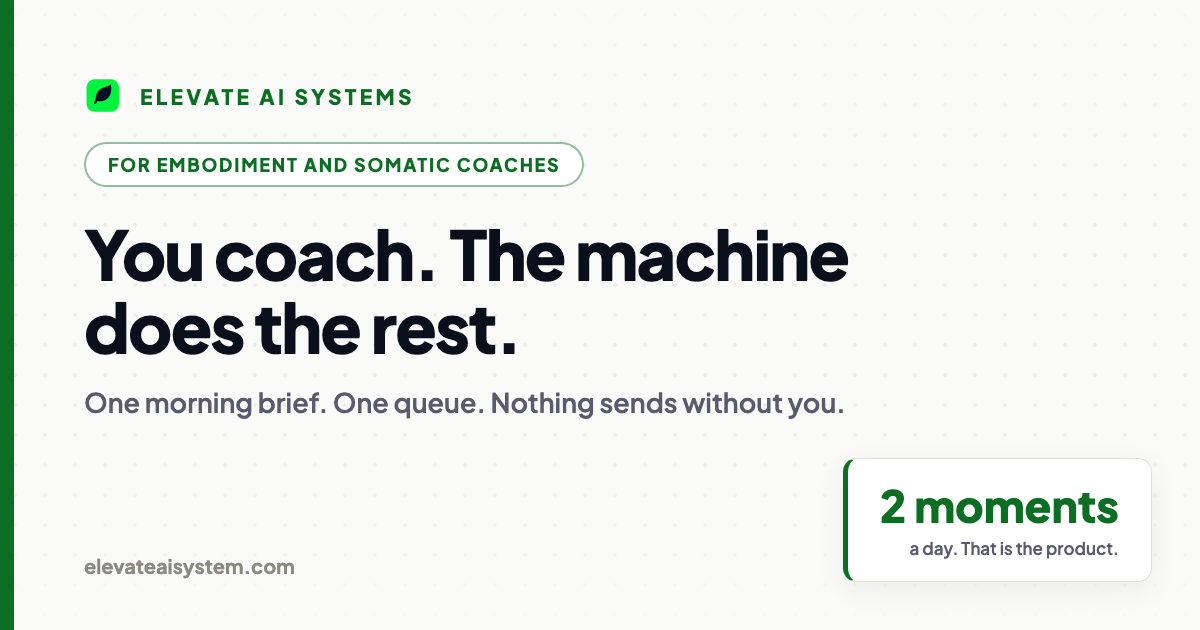
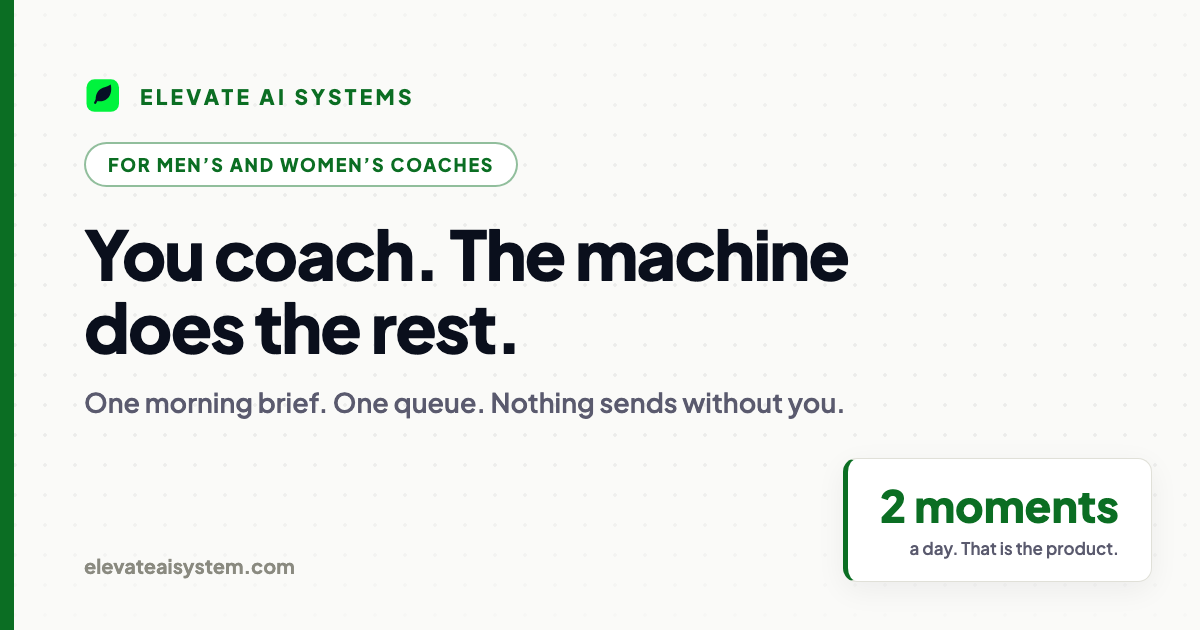
The coaches page stops chasing and names its real audience
"Chases" carried collection-agency energy, wrong for this room, so
it left the whole page, not just the rotator: the machine now
operates, administers, closes; money handles itself; waivers are
followed up on; the metas match. The energy is care with follow-
through, not pursuit.

Audience corrected to Sunny's actual room: men's and women's
coaches, whether transformation, embodiment, somatic, or any coach
helping people change. Badge, fit line, and the og card pill all
re-aimed. The embodiment-first block stays, because that is the
approach, not the audience.

Changed region(s): [[0.1233, 0.2111, 0.4933, 0.3016]]

diff --git a/coaches.html b/coaches.html
@@ -4,12 +4,12 @@
 <meta charset="UTF-8">
 <meta name="viewport" content="width=device-width, initial-scale=1.0">
 <title>AI Systems for Coaches | Elevate AI Systems</title>
-<meta name="description" content="You coach. The machine does the rest. We map the practice, build the ops that chase deposits, waivers and gone-quiet leads, and get you found on Google and in AI answers. You get one morning brief and one queue.">
+<meta name="description" content="You coach. The machine does the rest. We map the practice, build the ops that follow up on deposits, waivers and gone-quiet leads, and get you found on Google and in AI answers. You get one morning brief and one queue.">
 <meta name="robots" content="index, follow">
 <link rel="canonical" href="https://elevateaisystem.com/coaches">
 <meta property="og:type" content="website">
 <meta property="og:title" content="AI Systems for Coaches | Elevate AI Systems">
-<meta property="og:description" content="You coach. The machine does the rest. One morning brief, one queue, and an ops build that chases the money so you do not become a part-time funnel tech.">
+<meta property="og:description" content="You coach. The machine does the rest. One morning brief, one queue, and an ops build that follows up on the money so you do not become a part-time funnel tech.">
 <meta property="og:url" content="https://elevateaisystem.com/coaches">
 <meta property="og:site_name" content="Elevate AI Systems">
 <meta property="og:image" content="https://elevateaisystem.com/coaches-og.png">
@@ -40,7 +40,7 @@
 .who.who-big{max-width:820px;align-items:flex-start;gap:1.8rem;padding:1.8rem}
 .who.who-big img{width:230px;height:280px;border-radius:14px;object-fit:cover;object-position:50% 22%}
 @media(max-width:560px){.who.who-big img{width:170px;height:200px}}
-/* The machine's verb rotates: chases, administers, operates, closes. */
+/* The machine's verb rotates: operates, administers, closes. */
 .mword{display:inline-block;background:var(--green);color:var(--navy);padding:.02em .18em}
 </style>
 <script>window.addEventListener('load',function(){var n=Math.random().toString(36).substring(7),o=document.createElement("script");o.src="https://assets.apollo.io/micro/website-tracker/tracker.iife.js?nocache="+n,o.async=!0,o.defer=!0,o.onload=function(){window.trackingFunctions&&window.trackingFunctions.onLoad({appId:"69af333ec98ca400116945f0"})},document.head.appendChild(o)});</script>
@@ -66,10 +66,10 @@
 <header class="hero">
   <div class="hero-badge">
     <svg xmlns="http://www.w3.org/2000/svg" viewBox="0 0 24 24" fill="none" stroke="currentColor" stroke-width="2.5" stroke-linecap="round"><path d="M20 6 9 17l-5-5"/></svg>
-    For embodiment and somatic coaches with a real practice
+    For men&rsquo;s and women&rsquo;s coaches with a real practice
   </div>
   <h1 class="hero-you" style="font-size:clamp(2.5rem,5.5vw,4.4rem);max-width:16ch;margin-inline:auto">You coach. The machine does the rest.</h1>
-  <p class="hero-subhead">We map the practice, build the ops that chase deposits, waivers and gone-quiet leads, design the site, and get you found. You do not learn a dashboard. <b>You get one morning brief and one queue of things that need you.</b></p>
+  <p class="hero-subhead">We map the practice, build the ops that follow up on deposits, waivers and gone-quiet leads, design the site, and get you found. You do not learn a dashboard. <b>You get one morning brief and one queue of things that need you.</b></p>
   <div class="hero-buttons">
     <a href="https://cal.com/sunny-binjola/discovery-call?utm_source=website&utm_campaign=coaches" target="_blank" rel="noopener" class="hero-cta">Book a free call</a>
     <a href="#work" class="hero-cta-secondary">See the work</a>
@@ -126,18 +126,18 @@
 
 <section class="section" id="work">
   <div class="section-inner">
-    <h2 class="section-title reveal wide">Then we build the machine that <span style="white-space:nowrap"><span class="mword" id="machineWord">chases</span>.</span></h2>
+    <h2 class="section-title reveal wide">Then we build the machine that <span style="white-space:nowrap"><span class="mword" id="machineWord">operates</span>.</span></h2>
     <p class="section-subtitle reveal">The money, the paperwork, the follow-up, the client notes. None of it depends on your memory anymore. <b>You just coach. We take the rest of the ops.</b></p>
 
     <div class="checks reveal">
       <div class="check first">
-        <div class="ck-head"><span class="ck-n">01</span><h3>Money that chases itself</h3></div>
+        <div class="ck-head"><span class="ck-n">01</span><h3>Money that handles itself</h3></div>
         <p><b>Built</b> Deposits, payment plans, the follow-up on every unpaid invoice, and the backend that sends it. Clients keep coming in, and the money is managed cleanly.</p>
-        <p class="see"><b>You see</b> Who paid, who is on a plan, who the machine is chasing this week.</p>
+        <p class="see"><b>You see</b> Who paid, who is on a plan, who the machine is following up with this week.</p>
       </div>
       <div class="check">
         <div class="ck-head"><span class="ck-n">02</span><h3>Signed promises</h3></div>
-        <p><b>Built</b> Waivers and agreements sent, chased, and filed before the first session.</p>
+        <p><b>Built</b> Waivers and agreements sent, followed up on, and filed before the first session.</p>
         <p class="see"><b>You see</b> One line on the brief when something is still unsigned.</p>
       </div>
       <div class="check">
@@ -187,7 +187,7 @@
           <span class="board-badge">Sample data</span>
         </div>
         <div class="brief-row"><div><p class="t">2 people need a decision today</p><p class="m">Both are in the queue with drafts ready</p></div><span class="when">7:00 AM</span></div>
-        <div class="brief-row"><div><p class="t">Marcus paid plan 2 of 4</p><p class="m">Next payment chases itself on the 1st</p></div><span class="when">overnight</span></div>
+        <div class="brief-row"><div><p class="t">Marcus paid plan 2 of 4</p><p class="m">Next payment collects itself on the 1st</p></div><span class="when">overnight</span></div>
         <div class="brief-row"><div><p class="t">Retreat waiver signed, 1 outstanding</p><p class="m">The machine nudged the last one this morning</p></div><span class="when">overnight</span></div>
         <div class="brief-row"><div><p class="t">3 new leads captured and answered</p><p class="m">Replies drafted in your voice, waiting on approval</p></div><span class="when">overnight</span></div>
       </div>
@@ -250,7 +250,7 @@
     </figure>
 
     <div class="fitline reveal" style="margin-top:1.6rem">
-      <b>Built for</b> embodiment and somatic coaches with a real practice: paying clients, real offerings, more demand on you than hours in the week.
+      <b>Built for</b> men&rsquo;s and women&rsquo;s coaches: transformation, embodiment, somatic, every kind of coach helping people change. A real practice, paying clients, more demand on you than hours in the week.
       <br><span class="no">Not for</span> anyone shopping for a funnel guru or a growth hack. This is infrastructure, and it is worth building once you have something real to hold.
     </div>
   </div>
@@ -287,7 +287,7 @@
 (function(){
   var el=document.getElementById('machineWord');
   if(!el||window.matchMedia('(prefers-reduced-motion: reduce)').matches)return;
-  var words=['chases','administers','operates','closes'],i=0;
+  var words=['operates','administers','closes'],i=0;
   setInterval(function(){i=(i+1)%words.length;el.style.opacity='0';
     setTimeout(function(){el.textContent=words[i];el.style.opacity='1';},220);},2600);
   el.style.transition='opacity .22s ease';
